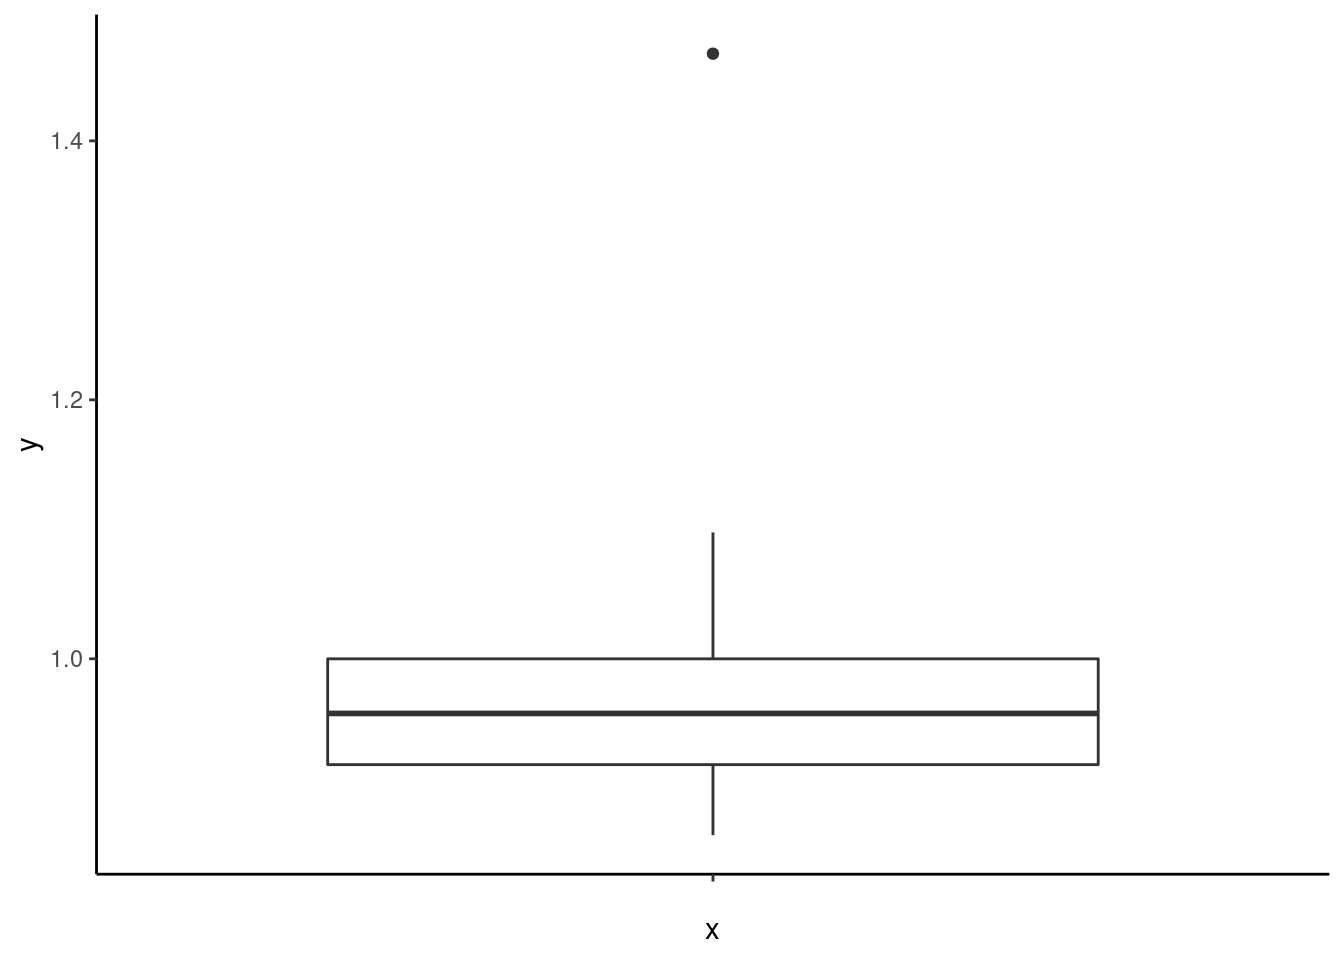
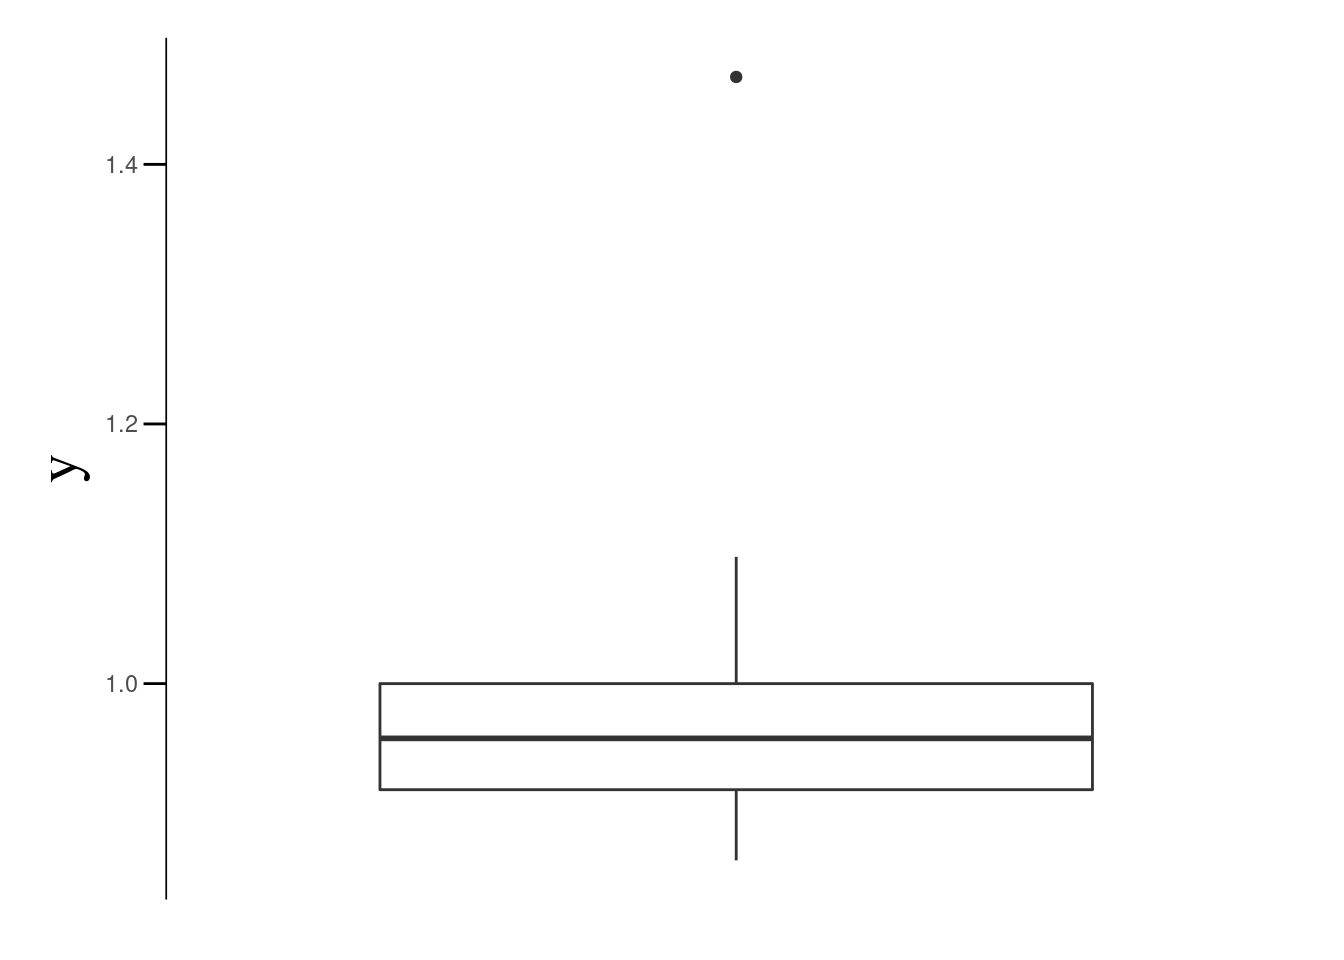
Build site.

diff --git a/docs/PatientX.html b/docs/PatientX.html
@@ -517,16 +517,16 @@ This reproducible <a href="http://rmarkdown.rstudio.com">R Markdown</a> analysis
 <div class="panel panel-default">
 <div class="panel-heading">
 <p class="panel-title">
-<a data-toggle="collapse" data-parent="#workflowr-checks" href="#strongRepositoryversionstrongahrefhttpsgithubcomdssrttnTesttree1e9171273b1fd08f79f150fbfc98f7529358bffatargetblank1e91712a"> <span class="glyphicon glyphicon-ok text-success" aria-hidden="true"></span> <strong>Repository version:</strong> <a href="https://github.com/dssrttn/Test/tree/1e9171273b1fd08f79f150fbfc98f7529358bffa" target="_blank">1e91712</a> </a>
+<a data-toggle="collapse" data-parent="#workflowr-checks" href="#strongRepositoryversionstrongahrefhttpsgithubcomdssrttnTesttreeb72ef08ca5e94a6fe3cf0c9ed6276738ffdde9a2targetblankb72ef08a"> <span class="glyphicon glyphicon-ok text-success" aria-hidden="true"></span> <strong>Repository version:</strong> <a href="https://github.com/dssrttn/Test/tree/b72ef08ca5e94a6fe3cf0c9ed6276738ffdde9a2" target="_blank">b72ef08</a> </a>
 </p>
 </div>
[2 lines of base64/hex data omitted]
 <div class="panel-body">
 <p>
 Great! You are using Git for version control. Tracking code development and connecting the code version to the results is critical for reproducibility.
 </p>
 <p>
-The results in this page were generated with repository version <a href="https://github.com/dssrttn/Test/tree/1e9171273b1fd08f79f150fbfc98f7529358bffa" target="_blank">1e91712</a>. See the <em>Past versions</em> tab to see a history of the changes made to the R Markdown and HTML files.
+The results in this page were generated with repository version <a href="https://github.com/dssrttn/Test/tree/b72ef08ca5e94a6fe3cf0c9ed6276738ffdde9a2" target="_blank">b72ef08</a>. See the <em>Past versions</em> tab to see a history of the changes made to the R Markdown and HTML files.
 </p>
 <p>
 Note that you need to be careful to ensure that all relevant files for the analysis have been committed to Git prior to generating the results (you can use <code>wflow_publish</code> or <code>wflow_git_commit</code>). workflowr only checks the R Markdown file, but you know if there are other scripts or data files that it depends on. Below is the status of the Git repository when the results were generated:
@@ -549,6 +549,7 @@ Untracked files:
     Untracked:  code/boxplotdilminusboostggplot.html
     Untracked:  code/boxplotminustest.Rmd
     Untracked:  code/boxplotminustest.html
+    Untracked:  code/boxplottheme.R
     Untracked:  code/figure/
     Untracked:  code/lineplottheme.R
     Untracked:  data/1/
@@ -627,6 +628,40 @@ Message
 </tr>
 </thead>
 <tbody>
+<tr>
+<td>
+Rmd
+</td>
+<td>
+<a href="https://github.com/dssrttn/Test/blob/b72ef08ca5e94a6fe3cf0c9ed6276738ffdde9a2/analysis/PatientX.Rmd" target="_blank">b72ef08</a>
+</td>
+<td>
+Mein Vorname
+</td>
+<td>
+2020-08-09
+</td>
+<td>
+dil minus boost boxplot verschoenert
+</td>
+</tr>
+<tr>
+<td>
+html
+</td>
+<td>
+<a href="https://rawcdn.githack.com/dssrttn/Test/a41a6454d91a1b26305fceaf4e7ea98bacd930fa/docs/PatientX.html" target="_blank">a41a645</a>
+</td>
+<td>
+Mein Vorname
+</td>
+<td>
+2020-08-09
+</td>
+<td>
+Build site.
+</td>
+</tr>
 <tr>
 <td>
 Rmd
@@ -1005,7 +1040,7 @@ options(digits=3) # zeigt nur drei Zahlenwerte an
 source(&quot;code/plottheme.R&quot;)
 source(&quot;code/cbPalette.R&quot;)
 source(&quot;code/lineplottheme.R&quot;)
-
+source(&quot;code/boxplottheme.R&quot;)
 
 DIL&lt;- read_csv2(&#39;data/1/DIL.csv&#39;)
 Boost &lt;- read_csv2(&#39;data/1/Boost.csv&#39;)
@@ -1662,7 +1697,7 @@ Mein Vorname
 <p>(Mittelwert_DIL-Mittelwert_Boost)/(Mittelwert_DIL[1]-Mittelwert_Boost[1]))</p>
 <pre class="r"><code>source(here::here(&quot;code/boxplotdilminusboostggplot.R&quot;))
 
-DILminusboost</code></pre>
+DILminusboost </code></pre>
 <p><img src="figure/PatientX.Rmd/DIL%20minus%20boost%20Boxplot-1.png" width="672" style="display: block; margin: auto;" /></p>
 <p>
 <button type="button" class="btn btn-default btn-xs btn-workflowr btn-workflowr-fig" data-toggle="collapse" data-target="#fig-no-spaces-DIL-minus-boost-Boxplot-1">
@@ -1686,6 +1721,17 @@ Date
 </tr>
 </thead>
 <tbody>
+<tr>
+<td>
+<a href="https://github.com/dssrttn/Test/blob/a41a6454d91a1b26305fceaf4e7ea98bacd930fa/docs/figure/PatientX.Rmd/DIL minus boost Boxplot-1.png" target="_blank">a41a645</a>
+</td>
+<td>
+Mein Vorname
+</td>
+<td>
+2020-08-09
+</td>
+</tr>
 <tr>
 <td>
 <a href="https://github.com/dssrttn/Test/blob/1ac5764abfa2bfef658eb5dd85bccc4c8e84669c/docs/figure/PatientX.Rmd/DIL minus boost Boxplot-1.png" target="_blank">1ac5764</a>
